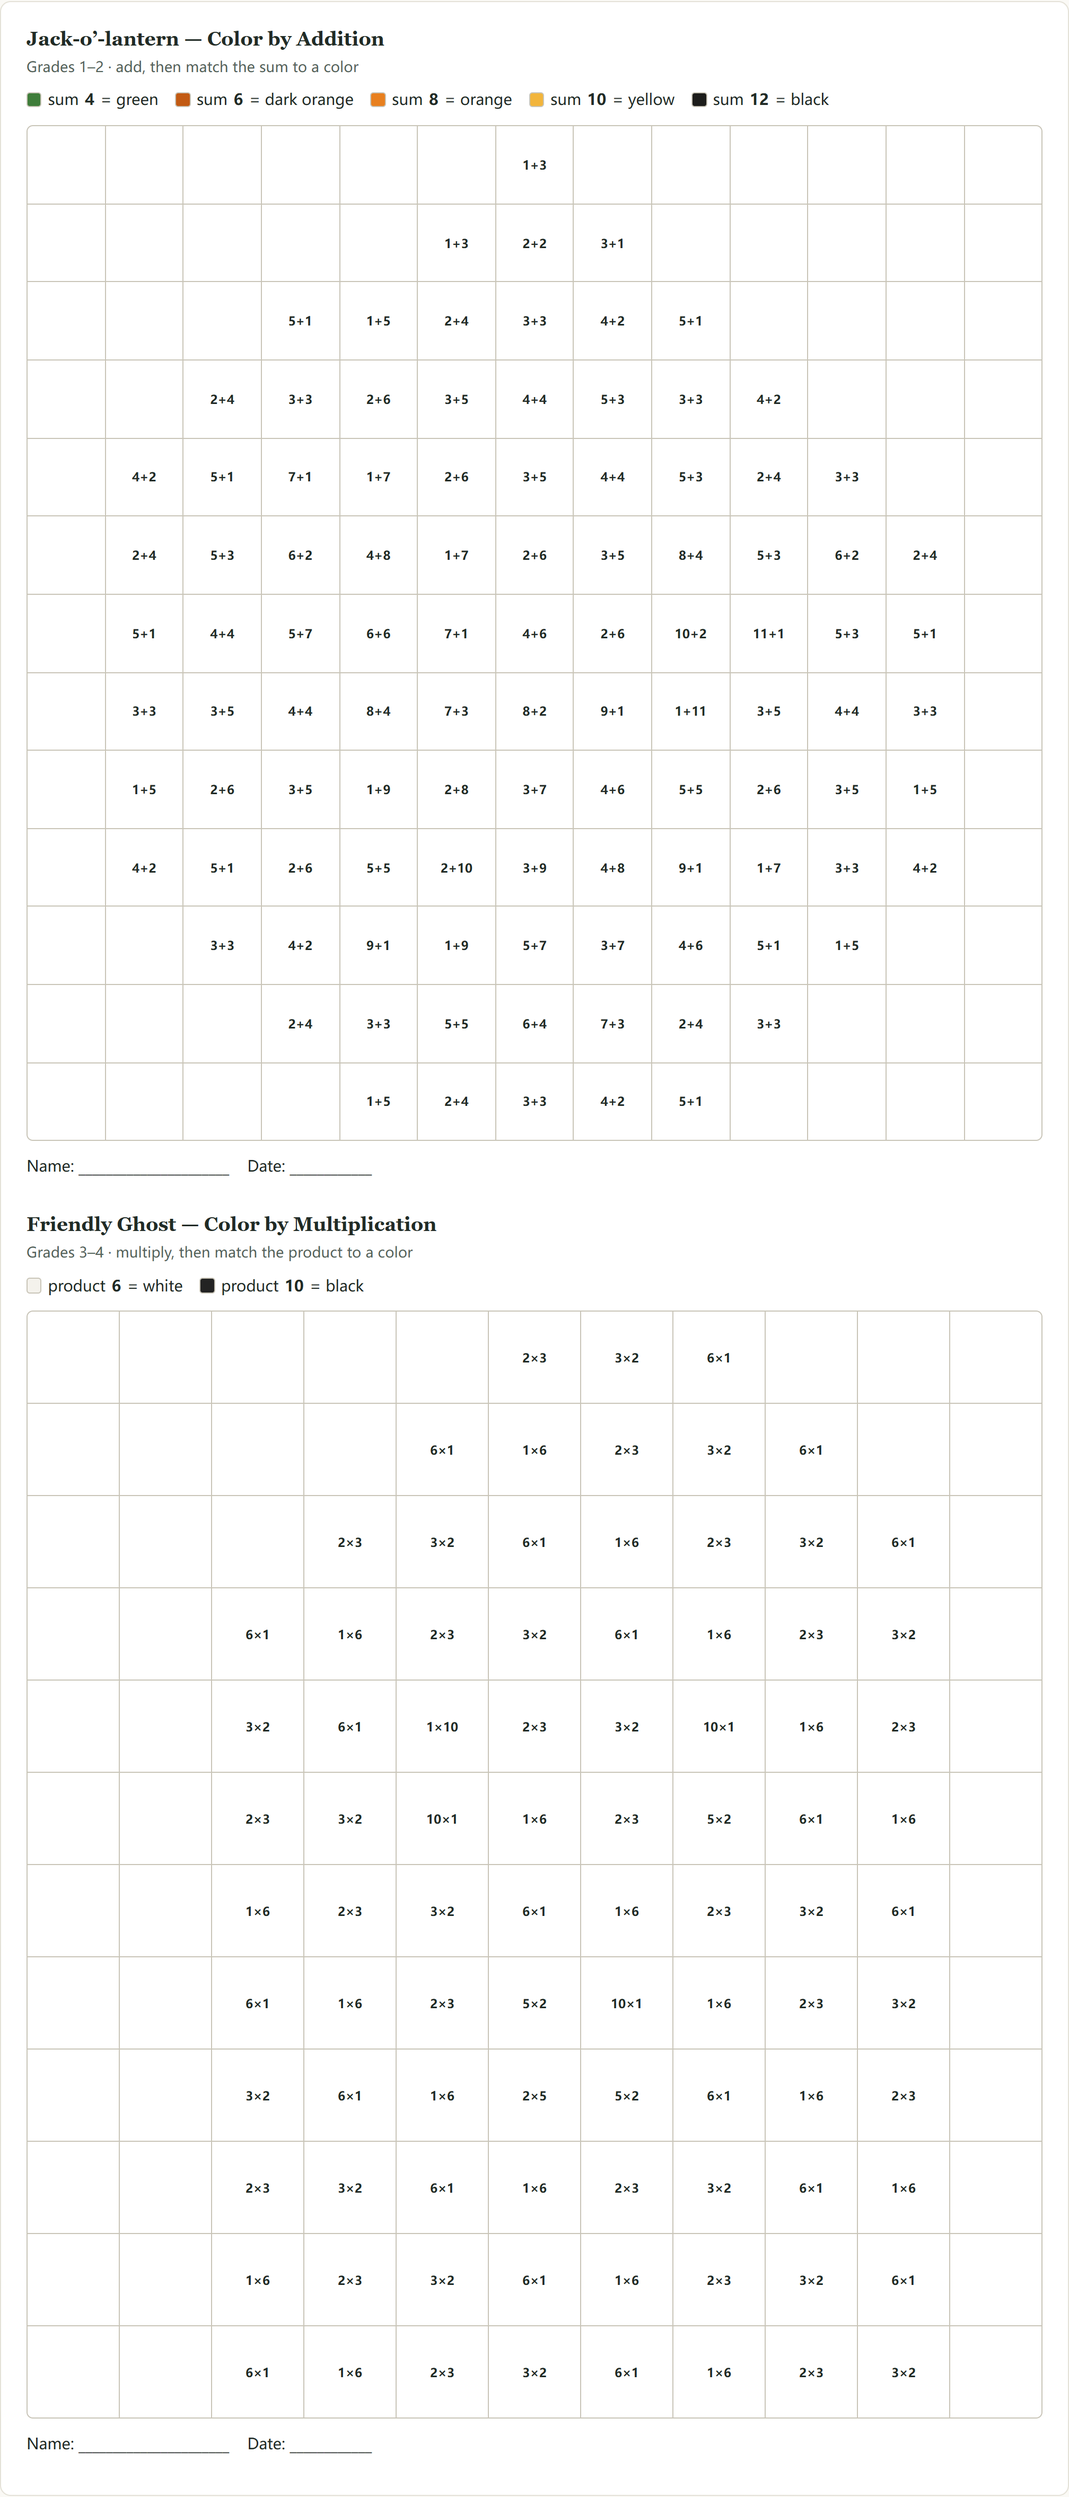
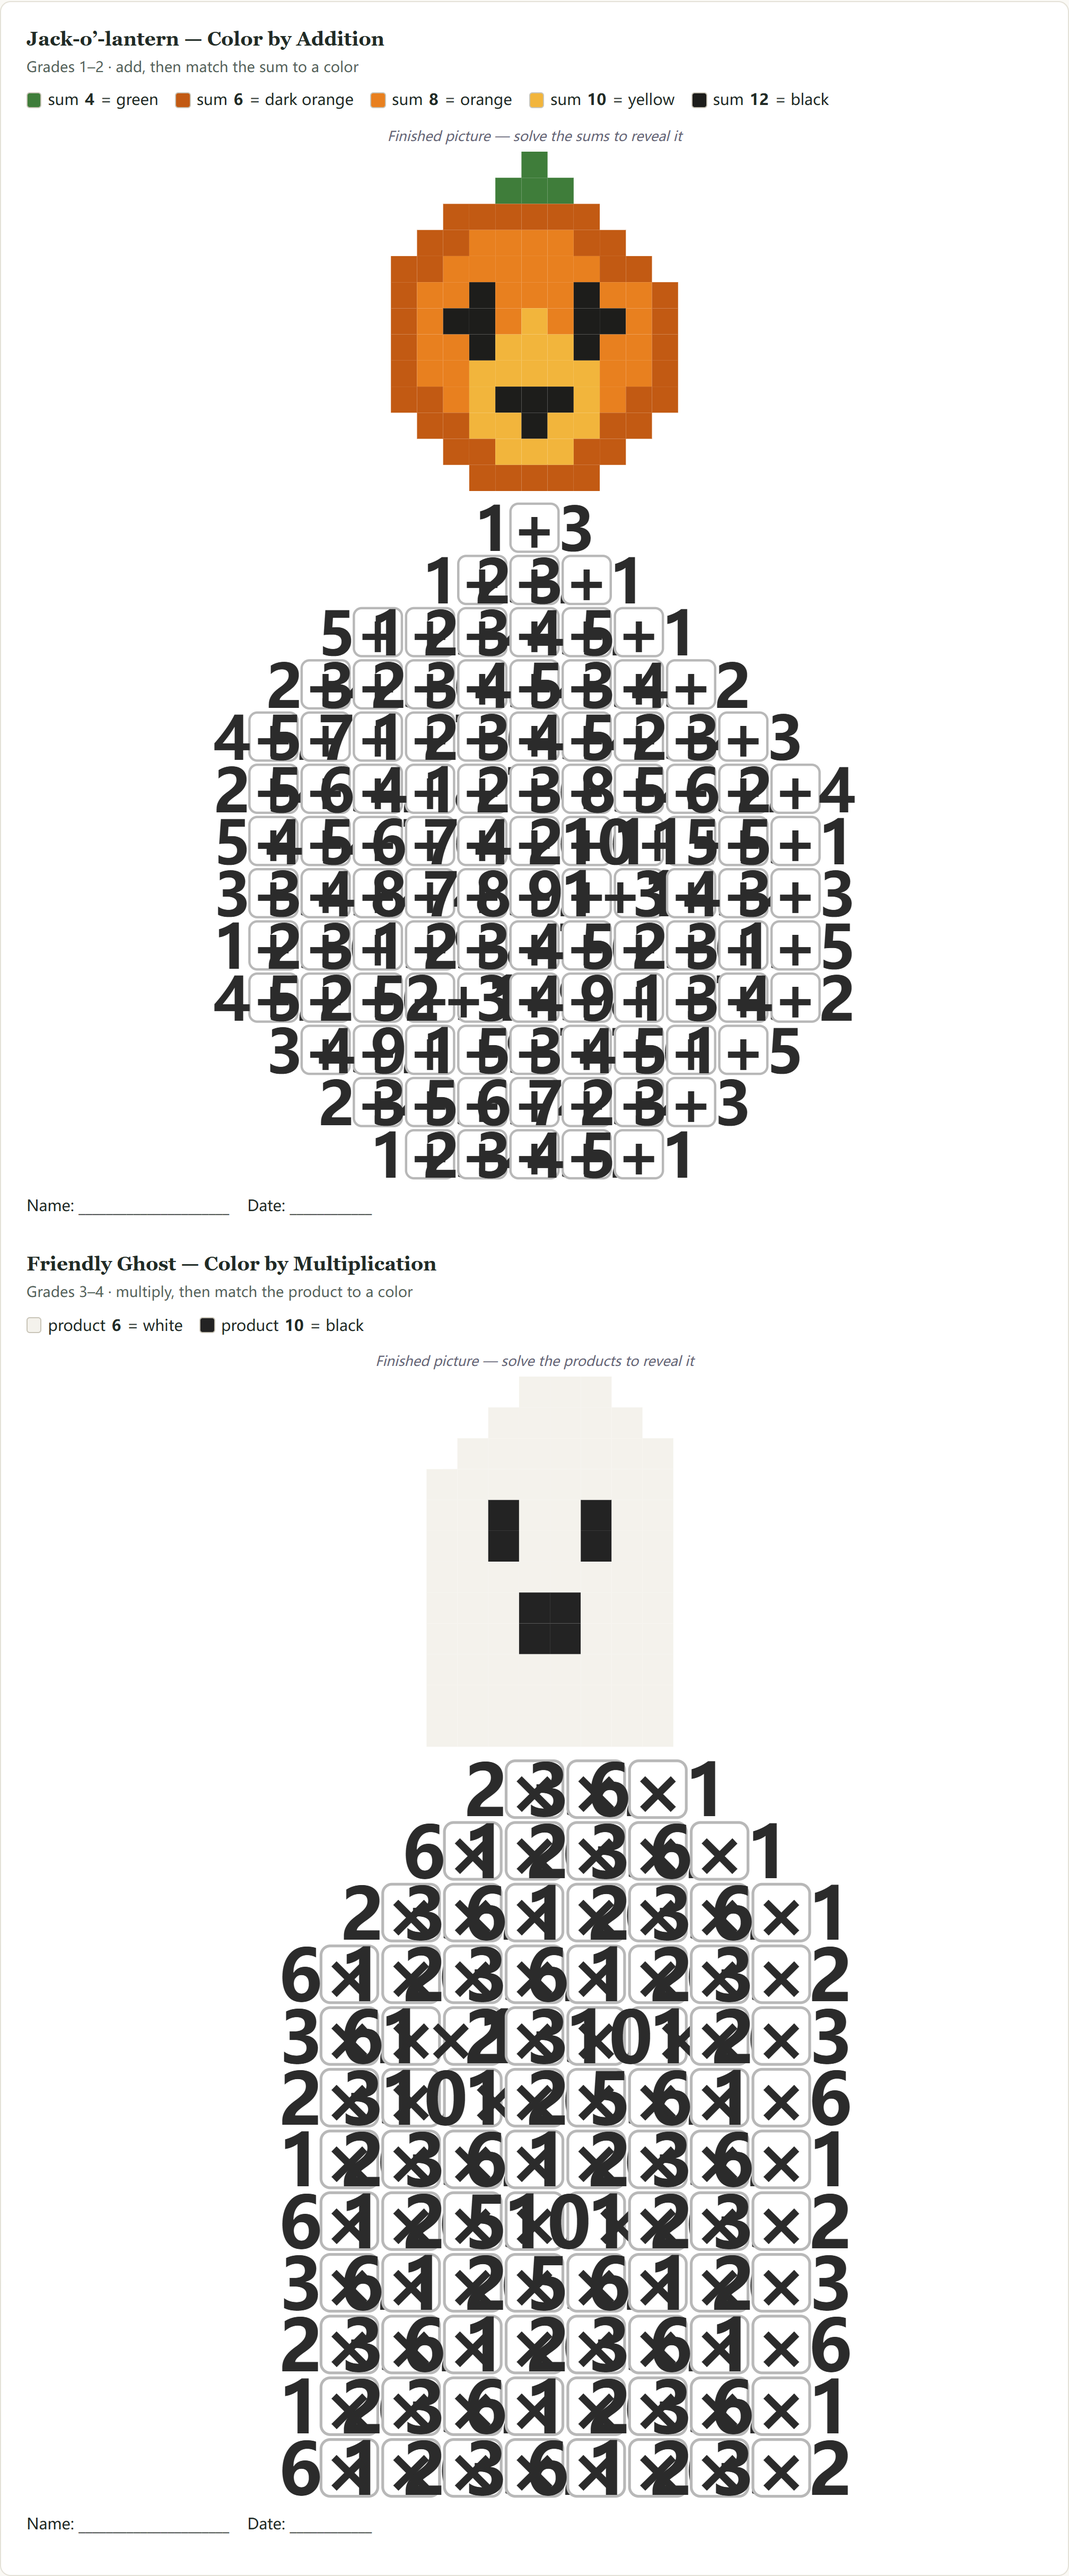
feat: 涂色页照 tintbrew 管线重渲染 — lib/paintArt.ts 纯函数数据矩阵→SVG 双模式(worksheet 白格圆角+算式不漏色 / reference 整幅全彩成品图 no-print 屏显) + PaintArt/factsFor 迁入 lib(halloween re-export 兼容) + cbn PNG 重拍 2016x4858 + 截图管线加子串过滤参数并修 place-value 文件名; 万圣/感恩/圣诞三簇涂色页一并升级; 96页 291/291 绿

diff --git a/chartglade/src/lib/paintArt.ts b/chartglade/src/lib/paintArt.ts
@@ -1,0 +1,115 @@
+/**
+ * Paint-by-math rendering pipeline (port of tintbrew's BeadFigure approach,
+ * user call 2026-10-29): the art is a pure number matrix, and one matrix
+ * renders two ways from the same code —
+ *
+ *  - worksheet: white rounded cells with the math fact in each; the printed
+ *    page never leaks a legend color, so the only way to know the color is
+ *    to solve the fact
+ *  - reference: contiguous full-color cells, the finished picture (screen
+ *    only — it IS the answer key)
+ *
+ * Output is a verbatim SVG string (set:html), so no framework attribute
+ * injection touches it — the dist guards regex `class="cbn-fact">` directly.
+ */
+
+export interface PaintArt {
+  name: string;
+  /** rows of legend keys; 0 means the cell stays blank */
+  cells: number[][];
+  /** key -> CSS color the printed swatch shows */
+  palette: Record<number, string>;
+  /** key -> color name as printed in the legend */
+  legend: Record<number, string>;
+}
+
+/** Facts for a legend key so every cell shows a fresh-but-checkable problem. */
+export function factsFor(key: number, mode: 'add' | 'mul'): { a: number; b: number }[] {
+  if (mode === 'add') {
+    const facts: { a: number; b: number }[] = [];
+    for (let a = 1; a < key; a++) facts.push({ a, b: key - a });
+    return facts;
+  }
+  const facts: { a: number; b: number }[] = [];
+  for (let a = 1; a <= key; a++) {
+    if (key % a === 0) facts.push({ a, b: key / a });
+  }
+  return facts;
+}
+
+export interface PaintedFact {
+  key: number;
+  a: number;
+  b: number;
+}
+
+/** (null = blank cell) Same cell index picks the same fact every build. */
+export type FactGrid = (PaintedFact | null)[][];
+
+export function buildFactGrid(art: PaintArt, mode: 'add' | 'mul'): FactGrid {
+  const cols = art.cells[0]?.length ?? 0;
+  return art.cells.map((row, r) =>
+    row.map((key, c) => {
+      if (key === 0) return null;
+      const pool = factsFor(key, mode);
+      const fact = pool[(r * cols + c) % pool.length]!;
+      return { key, ...fact };
+    }),
+  );
+}
+
+/* ------------------------------------------------------------------ */
+/* SVG builders — presentation attributes only, no CSS dependency      */
+/* (prints identically everywhere, screenshots identically too)        */
+/* ------------------------------------------------------------------ */
+
+const U = 10; // viewBox units per cell, same scale as tintbrew's pegboard
+const FONT = "system-ui, -apple-system, 'Segoe UI', Arial, sans-serif";
+
+function svgOpen(art: PaintArt, label: string): string {
+  const cols = art.cells[0]?.length ?? 0;
+  return (
+    `<svg xmlns="http://www.w3.org/2000/svg" viewBox="0 0 ${cols * U} ${art.cells.length * U}"` +
+    ` role="img" aria-label="${label}" style="width:100%;height:auto;display:block">`
+  );
+}
+
+/**
+ * The printable worksheet: white rounded cells, hairline borders, the fact
+ * centered in each. Contains zero palette colors — the answer stays secret
+ * until the student solves for it.
+ */
+export function worksheetSvg(art: PaintArt, grid: FactGrid, op: '+' | '×'): string {
+  const body: string[] = [];
+  grid.forEach((row, r) => {
+    row.forEach((cell, c) => {
+      if (!cell) return;
+      const x = (c + 0.5) * U;
+      const y = (r + 0.5) * U;
+      const text = `${cell.a}${op}${cell.b}`;
+      const size = text.length <= 3 ? 4.6 : 4;
+      body.push(
+        `<rect x="${(c * U + 0.4).toFixed(1)}" y="${(r * U + 0.4).toFixed(1)}" width="${U - 0.8}" height="${U - 0.8}" rx="1.5" fill="#ffffff" stroke="#b8b8b8" stroke-width="0.45"/>` +
+          `<text x="${x}" y="${y}" text-anchor="middle" dominant-baseline="central" font-family="${FONT}" font-size="${size}" font-weight="600" fill="#2b2b2b" class="cbn-fact">${text}</text>`,
+      );
+    });
+  });
+  return svgOpen(art, `${art.name} color by number worksheet — solve each fact, then color`) + body.join('') + '</svg>';
+}
+
+/**
+ * The finished picture: contiguous full-color cells, no gaps or rounding, so
+ * the color areas read as one solid image (tintbrew's reference mode).
+ */
+export function referenceSvg(art: PaintArt): string {
+  const body: string[] = [];
+  art.cells.forEach((row, r) => {
+    row.forEach((key, c) => {
+      if (key === 0) return;
+      body.push(
+        `<rect x="${c * U}" y="${r * U}" width="${U}" height="${U}" fill="${art.palette[key]}"/>`,
+      );
+    });
+  });
+  return svgOpen(art, `${art.name} color by number, finished picture`) + body.join('') + '</svg>';
+}

diff --git a/chartglade/src/lib/paintArt.test.ts b/chartglade/src/lib/paintArt.test.ts
@@ -1,0 +1,70 @@
+import { describe, expect, it } from 'vitest';
+import { PUMPKIN_ADDITION, GHOST_MULTIPLICATION } from '../data/halloween';
+import { TREE_ADDITION, SNOWMAN_MULTIPLICATION, usedKeys } from '../data/christmas';
+import { buildFactGrid, referenceSvg, worksheetSvg, type PaintArt } from './paintArt';
+
+/**
+ * The tintbrew-style rendering pipeline (user call 2026-10-29): one number
+ * matrix -> worksheet SVG (facts only) and reference SVG (finished picture).
+ * The hard line under test: the WORKSHEET must never leak a palette color —
+ * the color is the answer, and the answer is the math.
+ */
+const ARTS: [string, PaintArt, 'add' | 'mul'][] = [
+  ['pumpkin', PUMPKIN_ADDITION, 'add'],
+  ['ghost', GHOST_MULTIPLICATION, 'mul'],
+  ['tree', TREE_ADDITION, 'add'],
+  ['snowman', SNOWMAN_MULTIPLICATION, 'mul'],
+];
+
+describe('buildFactGrid', () => {
+  it.each(ARTS)('%s: every painted cell carries a fact that answers to its key', (_, art, mode) => {
+    const grid = buildFactGrid(art, mode);
+    expect(grid.length).toBe(art.cells.length);
+    art.cells.forEach((row, r) => {
+      row.forEach((key, c) => {
+        const cell = grid[r]![c]!;
+        if (key === 0) expect(cell).toBeNull();
+        else {
+          expect(cell.key).toBe(key);
+          expect(mode === 'add' ? cell.a + cell.b : cell.a * cell.b).toBe(key);
+        }
+      });
+    });
+  });
+
+  it('is deterministic — the same art builds the same sheet every time', () => {
+    expect(buildFactGrid(PUMPKIN_ADDITION, 'add')).toEqual(buildFactGrid(PUMPKIN_ADDITION, 'add'));
+  });
+});
+
+describe('worksheetSvg', () => {
+  it.each(ARTS)('%s: one fact text per painted cell, class attr last so dist guards regex', (_, art, mode) => {
+    const svg = worksheetSvg(art, buildFactGrid(art, mode), mode === 'mul' ? '×' : '+');
+    const painted = art.cells.flat().filter((k) => k !== 0).length;
+    expect(svg.match(/class="cbn-fact">/g)).toHaveLength(painted);
+    expect(svg.match(/class="cbn-fact">\d+[+×]\d+<\/text>/g)).toHaveLength(painted);
+    expect(svg).toContain('rx="1.5"'); // rounded cells — the polish the port is for
+    const cols = art.cells[0]!.length;
+    expect(svg).toContain(`viewBox="0 0 ${cols * 10} ${art.cells.length * 10}"`);
+  });
+
+  it.each(ARTS)('%s: leaks zero palette colors — the answer stays secret', (_, art, mode) => {
+    const svg = worksheetSvg(art, buildFactGrid(art, mode), mode === 'mul' ? '×' : '+');
+    for (const key of usedKeys(art)) {
+      expect(svg, `legend color for key ${key} must not appear`).not.toContain(art.palette[key]!);
+    }
+    expect(svg).not.toContain('cbn-ref');
+  });
+});
+
+describe('referenceSvg', () => {
+  it.each(ARTS)('%s: contiguous full-color cells carry every used legend color', (_, art) => {
+    const svg = referenceSvg(art);
+    const painted = art.cells.flat().filter((k) => k !== 0).length;
+    expect(svg.match(/<rect /g)).toHaveLength(painted);
+    for (const key of usedKeys(art)) {
+      expect(svg).toContain(`fill="${art.palette[key]!}"`);
+    }
+    expect(svg).not.toContain('cbn-fact'); // the finished picture shows no math
+  });
+});

diff --git a/chartglade/src/data/halloween.ts b/chartglade/src/data/halloween.ts
@@ -22,15 +22,10 @@ export const HALLOWEEN_WORDS_HARD: string[] = [
 /* Color-by-number art: 0 = leave blank, other digits are legend keys. */
 /* ------------------------------------------------------------------ */
 
-export interface PaintArt {
-  name: string;
-  /** rows of legend keys; 0 means the cell stays white */
-  cells: number[][];
-  /** key -> CSS color the printed swatch shows */
-  palette: Record<number, string>;
-  /** key -> color name as printed in the legend */
-  legend: Record<number, string>;
-}
+// PaintArt + factsFor now live in lib/paintArt.ts (the SVG rendering
+// pipeline); re-exported here so every existing import keeps working.
+export type { PaintArt } from '../lib/paintArt';
+export { factsFor } from '../lib/paintArt';
 
 /** Jack-o'-lantern, 13x13. Addition edition: every key is a sum. */
 export const PUMPKIN_ADDITION: PaintArt = {
@@ -75,19 +70,6 @@ export const GHOST_MULTIPLICATION: PaintArt = {
   legend: { 6: 'white', 10: 'black', 12: 'purple' },
 };
 
-/** Facts for a legend key so every cell shows a fresh-but-checkable problem. */
-export function factsFor(key: number, mode: 'add' | 'mul'): { a: number; b: number }[] {
-  if (mode === 'add') {
-    const facts: { a: number; b: number }[] = [];
-    for (let a = 1; a < key; a++) facts.push({ a, b: key - a });
-    return facts;
-  }
-  const facts: { a: number; b: number }[] = [];
-  for (let a = 1; a <= key; a++) {
-    if (key % a === 0) facts.push({ a, b: key / a });
-  }
-  return facts;
-}
 
 /* ------------------------------------------------------------------ */
 /* Page defs                                                           */
@@ -174,9 +156,9 @@ export const halloweenPages: PageDef[] = [
     printNote: 'Two sheets, one letter page each (portrait). Crayon-friendly; color legend prints in color.',
     sheetImage: {
       src: '/images/halloween-color-by-number-printable.png',
-      alt: 'Free printable Halloween color by number — pumpkin addition and ghost multiplication math-fact coloring sheets with a color legend.',
+      alt: 'Free printable Halloween color by number — pumpkin addition and ghost multiplication math-fact coloring sheets with a color legend and finished-picture previews.',
       width: 2016,
-      height: 4710,
+      height: 4858,
     },
     tips: [
       {
